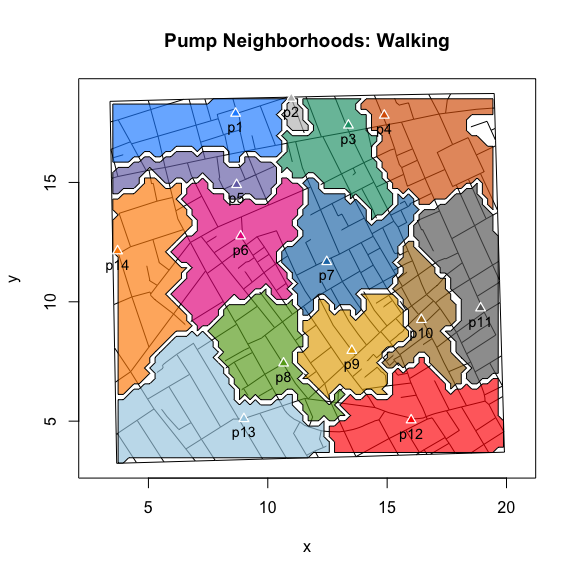
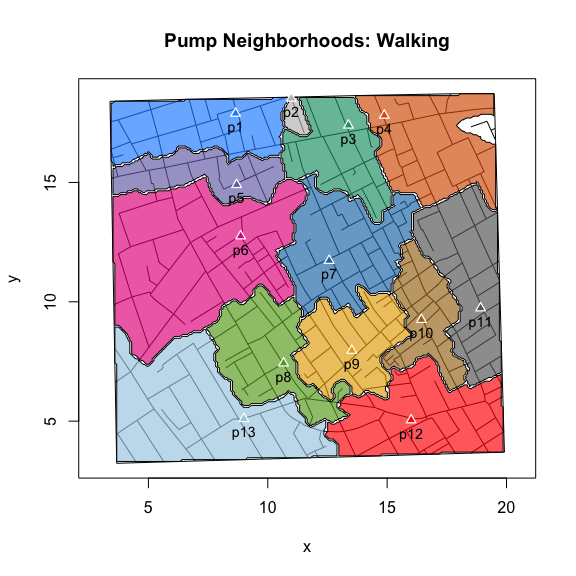
update READMEs

Changed region(s): [[0.1875, 0.1562, 0.875, 0.8125], [0.7812, 0.25, 0.875, 0.4062]]

diff --git a/README.md b/README.md
@@ -1,8 +1,5 @@
 
 <!-- README.md is generated from README.Rmd. Please edit that file -->
-[![CRAN\_Status\_Badge](http://www.r-pkg.org/badges/version/cholera)](https://cran.r-project.org/package=cholera)
-[![GitHub\_Status\_Badge](https://img.shields.io/badge/GitHub-0.4.9.9025-red.svg)](https://github.com/lindbrook/cholera/blob/master/NEWS)
-
 cholera: amend, augment and aid analysis of John Snow's 1854 cholera map
 ------------------------------------------------------------------------
 
@@ -66,7 +63,7 @@ plot(neighborhoodWalking(-7))
 You can also explore "expected" neighborhoods. Currently, you can do so in three ways. The first colors roads.
 
 ``` r
-plot(neighborhoodWalking(case.set = "expected", vestry = TRUE))
+plot(neighborhoodWalking(case.set = "expected"))
 ```
 
 ![](man/figures/README-expected-1.png)
@@ -74,7 +71,7 @@ plot(neighborhoodWalking(case.set = "expected", vestry = TRUE))
 The second and third color each neighborhood's area by using either points or polygons. The polygon implementation is shown below. It's new, still under development and will for certain configurations throw an error. For exploration, type = "road" (the default shown above) or type = "area.points" is still preferable.
 
 ``` r
-plot(neighborhoodWalking(case.set = "expected", vestry = TRUE), type = "area.polygons")
+plot(neighborhoodWalking(case.set = "expected"), type = "area.polygons")
 ```
 
 ![](man/figures/README-expected_area_polygons-1.png)
@@ -97,11 +94,11 @@ devtools::install_github("lindbrook/cholera", build_vignettes = TRUE)
 
 Read the package's vignettes. They expand on the concepts and data, and highlight the methods used to "fix" the data and to compute walking distances and pump neighborhoods. They can be read online at the links below:
 
-[Pump Neighborhoods](https://cran.r-project.org/web/packages/cholera/vignettes/pump.neighborhoods.html)   
-[Duplicate and Missing Cases](https://cran.r-project.org/web/packages/cholera/vignettes/duplicate.missing.cases.html)   
-["Unstacking" Bars](https://cran.r-project.org/web/packages/cholera/vignettes/unstacking.bars.html)   
-[Roads](https://cran.r-project.org/web/packages/cholera/vignettes/roads.html)   
-[Time Series](https://cran.r-project.org/web/packages/cholera/vignettes/time.series.html)   
+[Pump Neighborhoods](https://cran.r-project.org/web/packages/cholera/vignettes/pump.neighborhoods.html)
+[Duplicate and Missing Cases](https://cran.r-project.org/web/packages/cholera/vignettes/duplicate.missing.cases.html)
+["Unstacking" Bars](https://cran.r-project.org/web/packages/cholera/vignettes/unstacking.bars.html)
+[Roads](https://cran.r-project.org/web/packages/cholera/vignettes/roads.html)
+[Time Series](https://cran.r-project.org/web/packages/cholera/vignettes/time.series.html)
 [Kernel Density Plot](https://cran.r-project.org/web/packages/cholera/vignettes/kernel.density.html)
 
 ### note
